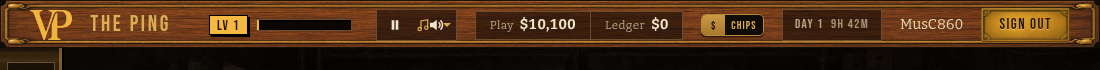
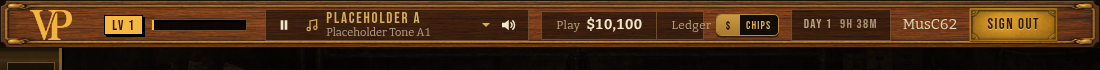
music: docs, lazy next-track preload, drift/skew tests

Changed region(s): [[0.0618, 0.1143, 0.9891, 0.6]]

diff --git a/public/music.js b/public/music.js
@@ -24,7 +24,7 @@
   const mkVoice = () => { const el = new Audio(); el.preload = 'auto'; return { el, url: '', idx: -1, stationId: '' }; };
   const voices = [mkVoice(), mkVoice()];
   let cur = null;
-  let boundaryTimer = 0, corrTimer = 0, tickTimer = 0;
+  let boundaryTimer = 0, corrTimer = 0, tickTimer = 0, preloadTimer = 0;
 
   const serverNow = () => Date.now() + S.offset;
   const station = () => S.stations.find(s => s.id === S.stationId) || null;
@@ -90,7 +90,7 @@
 
   // ---------- engine ----------
   function otherVoice() { return voices.find(v => v !== cur) || voices[0]; }
-  const clearTimers = () => { clearTimeout(boundaryTimer); clearTimeout(corrTimer); boundaryTimer = corrTimer = 0; };
+  const clearTimers = () => { clearTimeout(boundaryTimer); clearTimeout(corrTimer); clearTimeout(preloadTimer); boundaryTimer = corrTimer = preloadTimer = 0; };
 
   function ready(el, g) {
     return new Promise(res => {
@@ -134,11 +134,14 @@
     clearTimeout(boundaryTimer);
     const st = station(); if (!st) return;
     const p = posOf(st);
+    const left = Math.max(0, p.trackEndMs - serverNow());
     boundaryTimer = setTimeout(() => {
       if (g !== S.gen || !S.wantPlay) return;
       begin(otherVoice(), g);
-    }, Math.max(0, p.trackEndMs - serverNow()) + 5);
-    preloadNext();
+    }, left + 5);
+    // fetch the next mp3 only ~20 s before the hand-off so a quick station hop never wastes a download
+    clearTimeout(preloadTimer);
+    preloadTimer = setTimeout(() => { if (g === S.gen) preloadNext(); }, Math.max(0, left - 20000));
   }
 
   function preloadNext() {
@@ -249,6 +252,7 @@
       };
     },
   };
+  api._debug = { el: () => (cur ? cur.el : null), correct: tight => correct(!!tight) };
   window.PingMusic = api;
 
   // ---------- UI ----------

diff --git a/qa/music/two_context.py b/qa/music/two_context.py
@@ -74,6 +74,21 @@ try:
         check('local pause stops B only', b.evaluate("PingMusic.nowPlaying().status") == 'paused' and a.evaluate("PingMusic.nowPlaying().playing"))
         b.evaluate("PingMusic.play()"); playing(b); b.wait_for_timeout(2500)
         compare('after pause/resume', a, b)
+        # drift correction: small drift is nudged via playbackRate, large drift is re-seeked
+        a.evaluate("PingMusic._debug.el().currentTime += 0.25"); a.evaluate("PingMusic._debug.correct(false)")
+        r1 = a.evaluate("PingMusic.nowPlaying()"); check('250 ms drift -> playbackRate nudge (no seek)', r1['rate'] < 1 and r1['hardSeeks'] == 0, f"rate={r1['rate']:.3f} drift={r1['driftSec']:.3f}")
+        a.wait_for_timeout(6000); r1b = a.evaluate("PingMusic.nowPlaying()")
+        a.evaluate("PingMusic._debug.el().currentTime += 1.5"); a.evaluate("PingMusic._debug.correct(false)"); a.wait_for_timeout(500)
+        r2 = a.evaluate("PingMusic.nowPlaying()"); check('1.5 s drift -> hard re-seek', r2['hardSeeks'] >= 1 and abs(r2['audioOffsetSec'] - r2['expectedOffsetSec']) < 0.3, f"hardSeeks={r2['hardSeeks']}")
+        a.wait_for_timeout(1500); compare('A re-converges with B after forced drifts', a, b)
+        # a listener whose local clock is 7 s fast still lands on the same moment (server-time offset correction)
+        D = br.new_context(viewport={'width': 1440, 'height': 800})
+        D.add_init_script("(()=>{const o=Date.now.bind(Date);Date.now=()=>o()+7000})()")
+        dpg = join(D, 'MusD' + str(int(time.time()) % 1000)); dpg.evaluate(f"PingMusic.setStation('{target}')"); playing(dpg); dpg.wait_for_timeout(2500)
+        sa = a.evaluate(SAMPLE); sd = dpg.evaluate(SAMPLE); sd['t'] -= 7000
+        dd = abs(start_instant(sa) - start_instant(sd)) if sa['idx'] == sd['idx'] else 99999
+        check('client clock +7 s skew corrected by ping offset', dd <= TOL, f"delta {dd:.0f} ms, clockOffsetMs={dpg.evaluate('PingMusic.nowPlaying().clockOffsetMs'):.0f}")
+        D.close()
         # volume persistence + duck
         b.evaluate("PingMusic.volume(0.8)"); b.reload(); b.wait_for_selector('#mu-bar', timeout=15000)
         check('volume persisted', abs(b.evaluate("PingMusic.volume()") - 0.8) < 1e-6)

diff --git a/MUSIC.md b/MUSIC.md
@@ -1,0 +1,29 @@
+# The Ping synced radio
+
+Everyone on a station hears the same moment. The server never streams: it publishes a fixed epoch per station, and each client computes `track = f((serverNow - epoch) mod loopLength)`.
+
+## Files
+- `public/music-clock.js` shared pure math (UMD: browser + node). `position`, `estimateOffset`, `nudgeRate`, `stationEpoch`.
+- `music.js` server: `attach({app, io, publicDir})` called once from server.js before `express.static`. Loads `public/audio/music/stations.json`, serves mp3 (Accept-Ranges, ETag, `Cache-Control: public, max-age=604800`), `GET /api/music/state`, socket `music:hello` -> `music:state`, `music:ping` (ack `{t: serverMs}`).
+- `public/music.js` + `public/music.css` client player and the bar (docked in `.sh-top` after the level chip; station picker popover on `document.body`).
+- `tools/gen-placeholder-music.sh` tiny placeholder tracks (`public/audio/music/placeholder-*`). Delete them and use the real stations.json when merged.
+
+## stations.json
+`{stations:[{id,name,tagline,tracks:[{file,title,artist,durationSec}]}]}`. `file` is relative to `public/audio/music/<id>/` (or contains a `/` to be relative to the music root). Missing `durationSec` is filled with `ffprobe` at boot (needs ffprobe on the host; otherwise the track is skipped with a warning). Epochs are derived from the station id, so a redeploy never reshuffles the radio; changing track order or durations does.
+
+## Socket events
+- client -> `music:hello` ; server -> `music:state` `{serverTime, stations:[{id,name,tagline,epoch,tracks:[{url,title,artist,durationSec}]}]}`
+- client -> `music:ping` with ack `{t}`; client keeps the last 8 samples and uses the lowest-RTT one (`offset = ts - (t0 + rtt/2)`), re-pings every 30 s.
+
+## Client API: `window.PingMusic`
+`setStation(id)`, `play()`, `pause()` (local only; resume rejoins in sync), `toggle()`, `volume(v?)` 0..1, `mute(b?)`, `duck(ms, amount)`, `nowPlaying()`, `stations()`, `on(fn)`, `options({pauseOnHidden})` (default false).
+`duck(holdMs, amount)`: ramps the music down by `amount` (0..1) in 90 ms, holds, releases in 600 ms; overlapping ducks take the deepest. Wired already: `PingJuice.sfx('big'|'mega'|'jackpot')` ducks 0.45/0.55/0.65 for 0.9/1.6/2.6 s (reaches the parent shell from game iframes via `window.parent.PingMusic`). Any slam sound can call `PingMusic.duck(500, 0.5)` directly.
+
+## Sync behavior
+Boundary hand-off by a precise timer to a preloaded second `<audio>` (next track is fetched ~20 s before the end). Drift check at 0.35/1.1/2.8 s after start (hard re-seek if >150 ms), then every 10 s (every 2.5 s while nudging): |drift| <30 ms ignored, <400 ms corrected with `playbackRate` 0.97..1.03, otherwise hard seek. Autoplay blocked -> bar shows "Click anywhere to start" and the first pointer/key/touch starts it.
+
+## Prefs (localStorage `pingmusic.*`)
+`vol` (default 0.35, applied squared), `muted`, `station`, `off` (local pause).
+
+## Tests
+`node tests/music-clock.test.js` (in `npm test`), `python3 qa/music/two_context.py` (two contexts + reload + boundary + drift + skew + autoplay gate; ports 4781).

diff --git a/PROGRESS-music.md b/PROGRESS-music.md
@@ -1,0 +1,7 @@
+# PROGRESS music_sync (branch music-sync)
+- [x] music-clock.js shared math + tests/music-clock.test.js (in npm test)
+- [x] music.js server hook (stations, static mp3 w/ ranges+cache, music:state/ping, /api/music/state)
+- [x] public/music.js + music.css bar, station picker, volume/mute persistence, autoplay gate, ducking, drift correction
+- [x] placeholder tracks (3 stations x 3) + stations.json; real music_source stations.json not yet present at build time (real mp3s were landing in the-ping-merge/public/audio/music: basement-funk, high-roller, late-night, smoky-lounge)
+- [x] qa/music/two_context.py all pass; screenshots in qa/music/
+- Open: real-network sync (localhost RTT ~1 ms), real mp3 VBR seek accuracy, iOS (ignores element.volume), no live-listener count.
